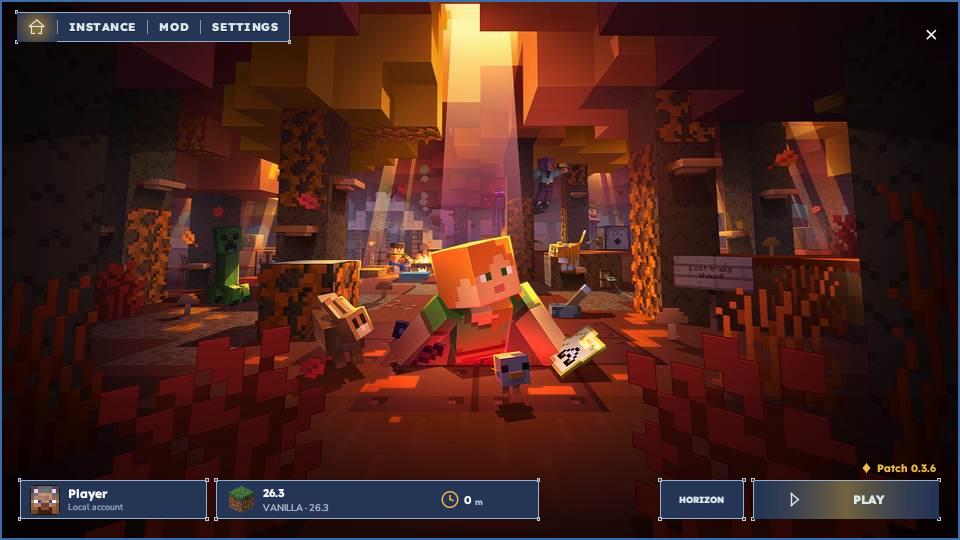
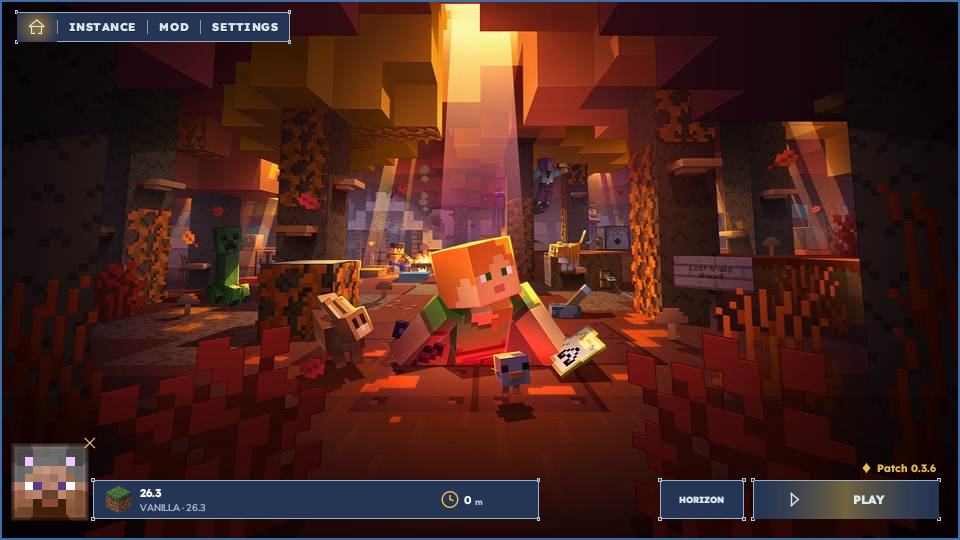
The profile card is only the head.
A small empty gold cross closes the window from the head's top-right, and the player name rises underneath on hover.

Changed region(s): [[0.0, 0.8, 0.3438, 0.9778]]

diff --git a/src/desktop.rs b/src/desktop.rs
@@ -960,32 +960,50 @@ impl Desktop {
     }
 
     fn paint_player_card(&mut self, ui: &mut egui::Ui, full: egui::Rect) {
-        let card = egui::Rect::from_min_size(egui::pos2(ux(full, 26.0), uy(full, 640.0)), egui::vec2(us(full, 250.0), us(full, 52.0)));
-        let hit = ui.interact(card, egui::Id::new("player-card"), Sense::click());
-        paint_hytale_bar(ui.painter(), card);
-        if hit.hovered() {
-            paint_active_fade(ui.painter(), card);
-        }
-        let head = egui::Rect::from_center_size(egui::pos2(card.left() + us(full, 34.0), card.center().y), egui::vec2(us(full, 40.0), us(full, 40.0)));
-        ui.painter().rect_filled(head, 4.0, egui::Color32::from_rgb(0x1A, 0x14, 0x10));
-        if let Some(face) = &self.avatar {
-            ui.painter().image(face.id(), head.shrink(1.0), egui::Rect::from_min_max(egui::Pos2::ZERO, egui::pos2(1.0, 1.0)), egui::Color32::WHITE);
-        }
+        // The wide account bar is only the head. The name rises under it on hover.
+        let side = us(full, 88.0).round().max(48.0);
+        let head = egui::Rect::from_min_size(
+            egui::pos2(ux(full, 22.0).round(), uy(full, 686.0).round() - side),
+            egui::vec2(side, side),
+        );
         let name = if self.username.is_empty() { "Player" } else { self.username.as_str() };
-        ui.painter().text(egui::pos2(card.left() + us(full, 64.0), card.center().y - us(full, 8.0)), egui::Align2::LEFT_CENTER, name, title_font(us(full, 16.0)), TEXT);
-        ui.painter().text(egui::pos2(card.left() + us(full, 64.0), card.center().y + us(full, 10.0)), egui::Align2::LEFT_CENTER, "Local account", sub_font(us(full, 12.0)), MUTED);
-        if hit.clicked() {
-            self.tab = Tab::Settings;
+        let head_hit = ui.interact(head, egui::Id::new("player-card"), Sense::click());
+        if let Some(face) = &self.avatar {
+            paint_head_glow(ui.painter(), head, face.id());
+            ui.painter().image(face.id(), head, egui::Rect::from_min_max(egui::Pos2::ZERO, egui::pos2(1.0, 1.0)), egui::Color32::WHITE);
+        } else {
+            ui.painter().rect_filled(head, 1.0, egui::Color32::from_rgb(0x1A, 0x14, 0x10));
         }
-        if hit.hovered() {
+
+        let cross = us(full, 13.0).max(10.0);
+        let cross_at = egui::pos2(head.right() + us(full, 9.0), head.top() - us(full, 8.0));
+        let exit = egui::Rect::from_center_size(cross_at, egui::vec2(us(full, 18.0), us(full, 18.0)));
+        let exit_hit = ui.interact(exit, egui::Id::new("exit-home"), Sense::click());
+        paint_empty_cross(ui.painter(), cross_at, cross, empty_gold(exit_hit.hovered()));
+
+        let shown = head_hit.hovered();
+        let t = ui.ctx().animate_bool(egui::Id::new("player-name-rise"), shown);
+        if t > 0.02 {
+            let font = title_font(us(full, 14.0));
+            let pos = egui::pos2(head.center().x, head.bottom() + us(full, 5.0) + (1.0 - t) * us(full, 8.0));
+            let a = (t * 235.0) as u8;
+            ui.painter().text(pos + egui::vec2(0.0, 1.0), egui::Align2::CENTER_TOP, name, font.clone(), egui::Color32::from_black_alpha(a / 2));
+            ui.painter().text(pos, egui::Align2::CENTER_TOP, name, font, egui::Color32::from_rgba_unmultiplied(236, 228, 206, a));
+        }
+
+        if exit_hit.hovered() || head_hit.hovered() {
             ui.ctx().set_cursor_icon(CursorIcon::PointingHand);
         }
-        hit.on_hover_text("Profile");
+        if exit_hit.clicked() {
+            self.quit(ui.ctx());
+        } else if head_hit.clicked() {
+            self.tab = Tab::Settings;
+        }
     }
 
     /// Version and play time. Display only — not a control.
     fn paint_instance_card(&self, ui: &mut egui::Ui, full: egui::Rect) {
-        let card = egui::Rect::from_min_size(egui::pos2(ux(full, 288.0), uy(full, 640.0)), egui::vec2(us(full, 430.0), us(full, 52.0)));
+        let card = egui::Rect::from_min_size(egui::pos2(ux(full, 124.0), uy(full, 640.0)), egui::vec2(us(full, 594.0), us(full, 52.0)));
         paint_hytale_bar(ui.painter(), card);
         let icon_rect = egui::Rect::from_center_size(egui::pos2(card.left() + us(full, 34.0), card.center().y), egui::vec2(us(full, 36.0), us(full, 36.0)));
         if let Some(icon) = self.loader_icon() {
@@ -1188,9 +1206,15 @@ impl Desktop {
     }
 
     fn paint_exit(&mut self, ui: &mut egui::Ui, full: egui::Rect) {
-        let exit = drect(full, 1224.0, 28.0, 36.0, 36.0);
+        // Home keeps this mark on the profile head. Other pages still need a way out.
+        if self.tab == Tab::Home {
+            return;
+        }
+        let center = egui::pos2(ux(full, 1248.0), uy(full, 34.0));
+        let size = us(full, 11.0).max(8.0);
+        let exit = egui::Rect::from_center_size(center, egui::vec2(us(full, 18.0), us(full, 18.0)));
         let hit = ui.interact(exit, egui::Id::new("exit-version"), Sense::click());
-        paint_material(ui.painter(), exit.center(), us(full, 22.0), I_CLOSE, if hit.hovered() { V_GOLD } else { V_TEXT });
+        paint_empty_cross(ui.painter(), center, size, empty_gold(hit.hovered()));
         if hit.hovered() {
             ui.ctx().set_cursor_icon(CursorIcon::PointingHand);
         }
@@ -1791,6 +1815,31 @@ fn play_button(ui: &mut egui::Ui, rect: egui::Rect, label: &str) -> bool {
 
 fn note_width(ui: &egui::Ui, text: &str) -> f32 {
     ui.painter().layout_no_wrap(text.to_string(), egui::FontId::proportional(13.0), MUTED).size().x
+}
+
+fn empty_gold(hot: bool) -> egui::Color32 {
+    if hot {
+        egui::Color32::from_rgb(255, 232, 168)
+    } else {
+        egui::Color32::from_rgb(236, 198, 112)
+    }
+}
+
+fn paint_empty_cross(painter: &egui::Painter, center: egui::Pos2, size: f32, color: egui::Color32) {
+    let h = size * 0.46;
+    let stroke = egui::Stroke::new(1.15, color);
+    painter.line_segment([center + egui::vec2(-h, -h), center + egui::vec2(h, h)], stroke);
+    painter.line_segment([center + egui::vec2(h, -h), center + egui::vec2(-h, h)], stroke);
+}
+
+fn paint_head_glow(painter: &egui::Painter, head: egui::Rect, tex: egui::TextureId) {
+    let uv = egui::Rect::from_min_max(egui::Pos2::ZERO, egui::pos2(1.0, 1.0));
+    // Faint larger copies of the head, not a stroked frame.
+    for i in (1..5).rev() {
+        let grow = i as f32 * 1.6;
+        let alpha = (8 + (5 - i) * 4) as u8;
+        painter.image(tex, head.expand(grow), uv, egui::Color32::from_white_alpha(alpha));
+    }
 }
 
 fn paint_exit_icon(painter: &egui::Painter, center: egui::Pos2, color: egui::Color32) {

diff --git a/README.md b/README.md
@@ -124,8 +124,8 @@ Linux sandbox: `apt install bubblewrap`. Without it, the client still gets a pri
 
 | Platform | File |
 | --- | --- |
-| Linux x86-64 | [rus-linux-x86_64](https://github.com/obsifox/rus/releases/download/v1.6.10/rus-linux-x86_64) |
-| Windows x64 | [rus-windows-x64.exe](https://github.com/obsifox/rus/releases/download/v1.6.10/rus-windows-x64.exe) |
+| Linux x86-64 | [rus-linux-x86_64](https://github.com/obsifox/rus/releases/download/v1.6.11/rus-linux-x86_64) |
+| Windows x64 | [rus-windows-x64.exe](https://github.com/obsifox/rus/releases/download/v1.6.11/rus-windows-x64.exe) |
 
 Linux:
 
